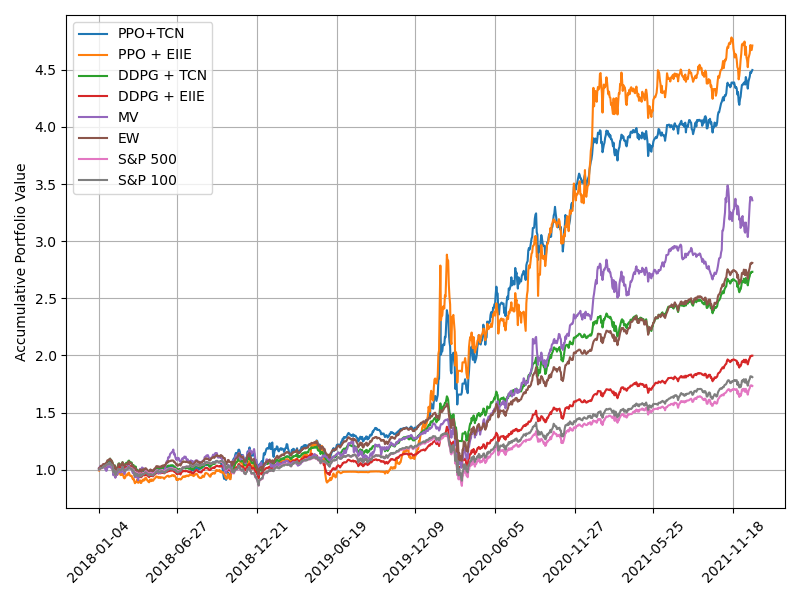
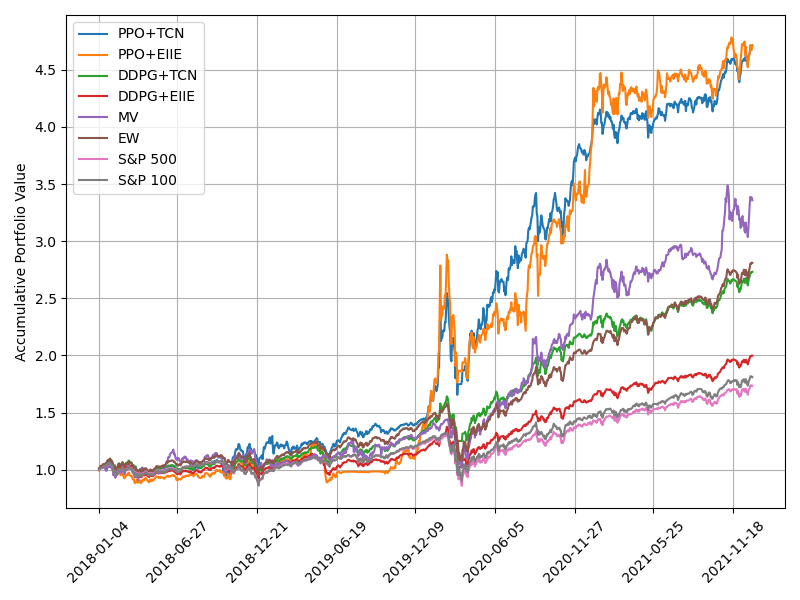
0427

Changed region(s): [[0.5312, 0.09, 0.9375, 0.69], [0.1562, 0.06, 0.2812, 0.18], [0.2812, 0.69, 0.5312, 0.78]]

diff --git a/model/DDPG.py b/model/DDPG.py
@@ -20,6 +20,25 @@ class GaussianNoise:
     def sample(self):
         return np.random.normal(self.mu, self.std)
 
+class OrnsteinUhlenbeckProcess:
+    def __init__(self, args, mu, sigma=0.2, theta=.25, dimension=1e-2, x0=None,num_steps=12000):
+        np.random.seed(args.seed)
+        self.theta = theta
+        self.mu = mu
+        self.sigma = sigma
+        self.dt = dimension
+        self.x0 = x0
+        self.reset()
+
+    def sample(self):
+        x = self.x_prev + self.theta * (self.mu - self.x_prev) * self.dt + \
+                self.sigma * np.sqrt(self.dt) * np.random.normal(size=self.mu.shape)
+        self.x_prev = x
+        return x
+
+    def reset(self):
+        self.x_prev = self.x0 if self.x0 is not None else np.zeros_like(self.mu)
+
 
 class ReplayMemory:
     # __slots__ = ['buffer','epi_buffer','capacity']
@@ -86,6 +105,7 @@ class DDPG(nn.Module):
         self.Gau_decay = args.Gau_decay
         self.tau = args.tau
         self.relu = nn.ReLU()
+        self.action_noise = OrnsteinUhlenbeckProcess(self.args, np.zeros(self.action_dim))
 
         #recorder
         self.train_reward = []
@@ -106,7 +126,8 @@ class DDPG(nn.Module):
         old_action = torch.FloatTensor(old_action[np.newaxis, :]).to(self.device) 
         _, action = self.behavior_network(state, old_action)
         if noise_inp == True:
-            self.action_noise = GaussianNoise(self.args, dim=len(old_action), mu=None, std=self.Gau_var)
+            #self.action_noise = GaussianNoise(self.args, dim=len(old_action), mu=None, std=self.Gau_var)
+            
             noise = self.action_noise.sample()
             noise = torch.FloatTensor(noise).to(self.device)
             noised_action = action + noise

diff --git a/final.py b/final.py
@@ -5,17 +5,17 @@ import matplotlib.dates as mdates
 
 
 # final
-PPO_TCN_PATH = 'save_/2022-04-24/120927'
+PPO_TCN_PATH = 'save_/2022-04-26/075400'
 PPO_EIIE_PATH = 'save_/2022-04-24/231537'
 DDPG_TCN_PATH = 'save_/2022-04-24/123209'
 DDPG_EIIE_PATH = 'save_/2022-04-24/123311'
 # turbulance
-TU_140 = 'save_/2022-04-24/120927'
-TU_NONE = 'save_/2022-04-24/120927_none'
+TU_140 = PPO_TCN_PATH
+TU_NONE = 'save_/2022-04-26/075400_none'
 # reward
-R = 'save_/2022-04-24/120927'
+R = PPO_TCN_PATH
+R1 = 'save_/2022-04-24/120927'
 R0 = 'save_/2022-04-24/121248'
-R2 = 'save_/2022-04-25/102421'
 # ew
 top10 = 'data/ew/ew10.pickle'
 top30 = 'data/ew/ew30.pickle'
@@ -63,13 +63,12 @@ def final():
 
 def reward():
     r, _, _, _, _, dates = load_values(R)
+    r1 = load_values(R1)[0]
     r0 = load_values(R0)[0]
-    r2 = load_values(R2)[0]
     plt.figure(figsize=(8, 6))
     ax = plt.subplot()
-    ax.plot(dates, r, dates, r0)
-    ax.plot(dates, r2)
-    legend = ['λ=0.1', 'λ=0', '0.2']
+    ax.plot(dates, r, dates, r1, dates, r0)
+    legend = ['λ=0.5', 'λ=0.1', 'λ=0']
     f = 'reward'
     fig_setting(ax, legend, f)
 
@@ -102,6 +101,7 @@ def ew():
     legend = ['Top 20', 'All stocks', 'S&P 100']#, '10', '30']
     f = 'ew'
     fig_setting(ax, legend, f)
+    print(ew[-1], ew_all[-1], sp100[-1])
     
 
 def main():

diff --git a/utils/define_args.py b/utils/define_args.py
@@ -17,7 +17,7 @@ def define_args():
     parser.add_argument('--trading_cost', default=0.002, type=float)
     parser.add_argument('--state_length', default=50, type=int)
     parser.add_argument('--lam1', default=0.0, type=float) 
-    parser.add_argument('--lam2', default=0.1, type=float)
+    parser.add_argument('--lam2', default=0.5, type=float)
     parser.add_argument('--lam3', default=0.0, type=float)
     
     parser.add_argument('-l', '--train_period_length', default=652, type=int)
@@ -28,7 +28,7 @@ def define_args():
     parser.add_argument('-b', '--batch_size', default=64, type=int)
     parser.add_argument('--lrv', default=1e-4, type=float)
     parser.add_argument('--lra', default=0.0015, type=float)
-    parser.add_argument('--tau', default=0.05, type=float)
+    parser.add_argument('--tau', default=0.001, type=float)
     parser.add_argument('-p', '--dropout_rate', default=0, type=float)
     
     # algo
@@ -46,7 +46,7 @@ def define_args():
     # algo (DDPG)
     parser.add_argument('--Gau_var', default=0.2, type=float)
     parser.add_argument('--Gau_decay', default=0.99995, type=float)
-    parser.add_argument('--capacity', default=60, type=int)
+    parser.add_argument('--capacity', default=10000, type=int)
 
 
     # train

diff --git a/train.py b/train.py
@@ -15,7 +15,7 @@ from utils.recorder import Recorder
 from utils.evaluation import risk_free_return
 
 
-SEED_STEP = 42
+SEED_STEP = 0 # test
 EPS = 1e-8
 
 
@@ -23,7 +23,7 @@ def train(args, agent, recorder, target_stocks, train_history, train_dating, tra
     agent.train()
     
     action_dim = len(target_stocks) + 1
-    sample_times = args.trajectory_sample_times# if args.algo == 'PPO' else 1
+    sample_times = args.trajectory_sample_times if args.algo == 'PPO' else 1
     rfr = risk_free_return()
     
     iteration_start_time = time.time()
@@ -44,6 +44,7 @@ def train(args, agent, recorder, target_stocks, train_history, train_dating, tra
     for st in range(sample_times):
         if args.algo == 'DDPG':
             start_date = index_to_date(date_to_index(train_start_date, train_dating) + st, train_dating) 
+            agent.action_noise.reset()
         else: start_date = train_start_date
         env = PortfolioEnv(args, train_history, train_data, action_dim, 
                             train_dating, train_history, steps=args.train_period_length,

diff --git a/run2.py b/run2.py
@@ -43,12 +43,12 @@ def main():
         policy_learn(args, agent, target_stocks, path, year, Q)  
     # test   
     else: 
-        year = 2021
-        Q = 4
+        year = 2019
+        Q = 2
         target_stocks, action_dim = targets(year=year, Q=Q, num=20)
         
         agent = Agent(args, action_dim)
-        test_dir = './save_/2022-04-23/125032'
+        test_dir = './save_/2022-04-25/195539'
         if args.case == 3:
             test_dir += ('/' + str(year) + 'Q' + str(Q))
         policy_test(args, agent, target_stocks, test_dir, year, Q)

diff --git a/test.py b/test.py
@@ -57,7 +57,7 @@ def test(args, agent, recorder, target_stocks, test_history,
                 if args.algo == 'PPO':
                     use_action, action, _, _ = agent.choose_action(state, current_weights)
                 elif args.algo == 'DDPG':
-                    use_action = agent.choose_action(state, current_weights)
+                    use_action = agent.choose_action(state, current_weights, noise_inp=False)
             else:
                 use_action = init_action
                 

diff --git a/path.py b/path.py
@@ -1,3 +1,3 @@
 def test_path():
-    path = './save_/2022-04-25/102421/'
+    path = './save_/2022-04-27/100642/'
     return path
